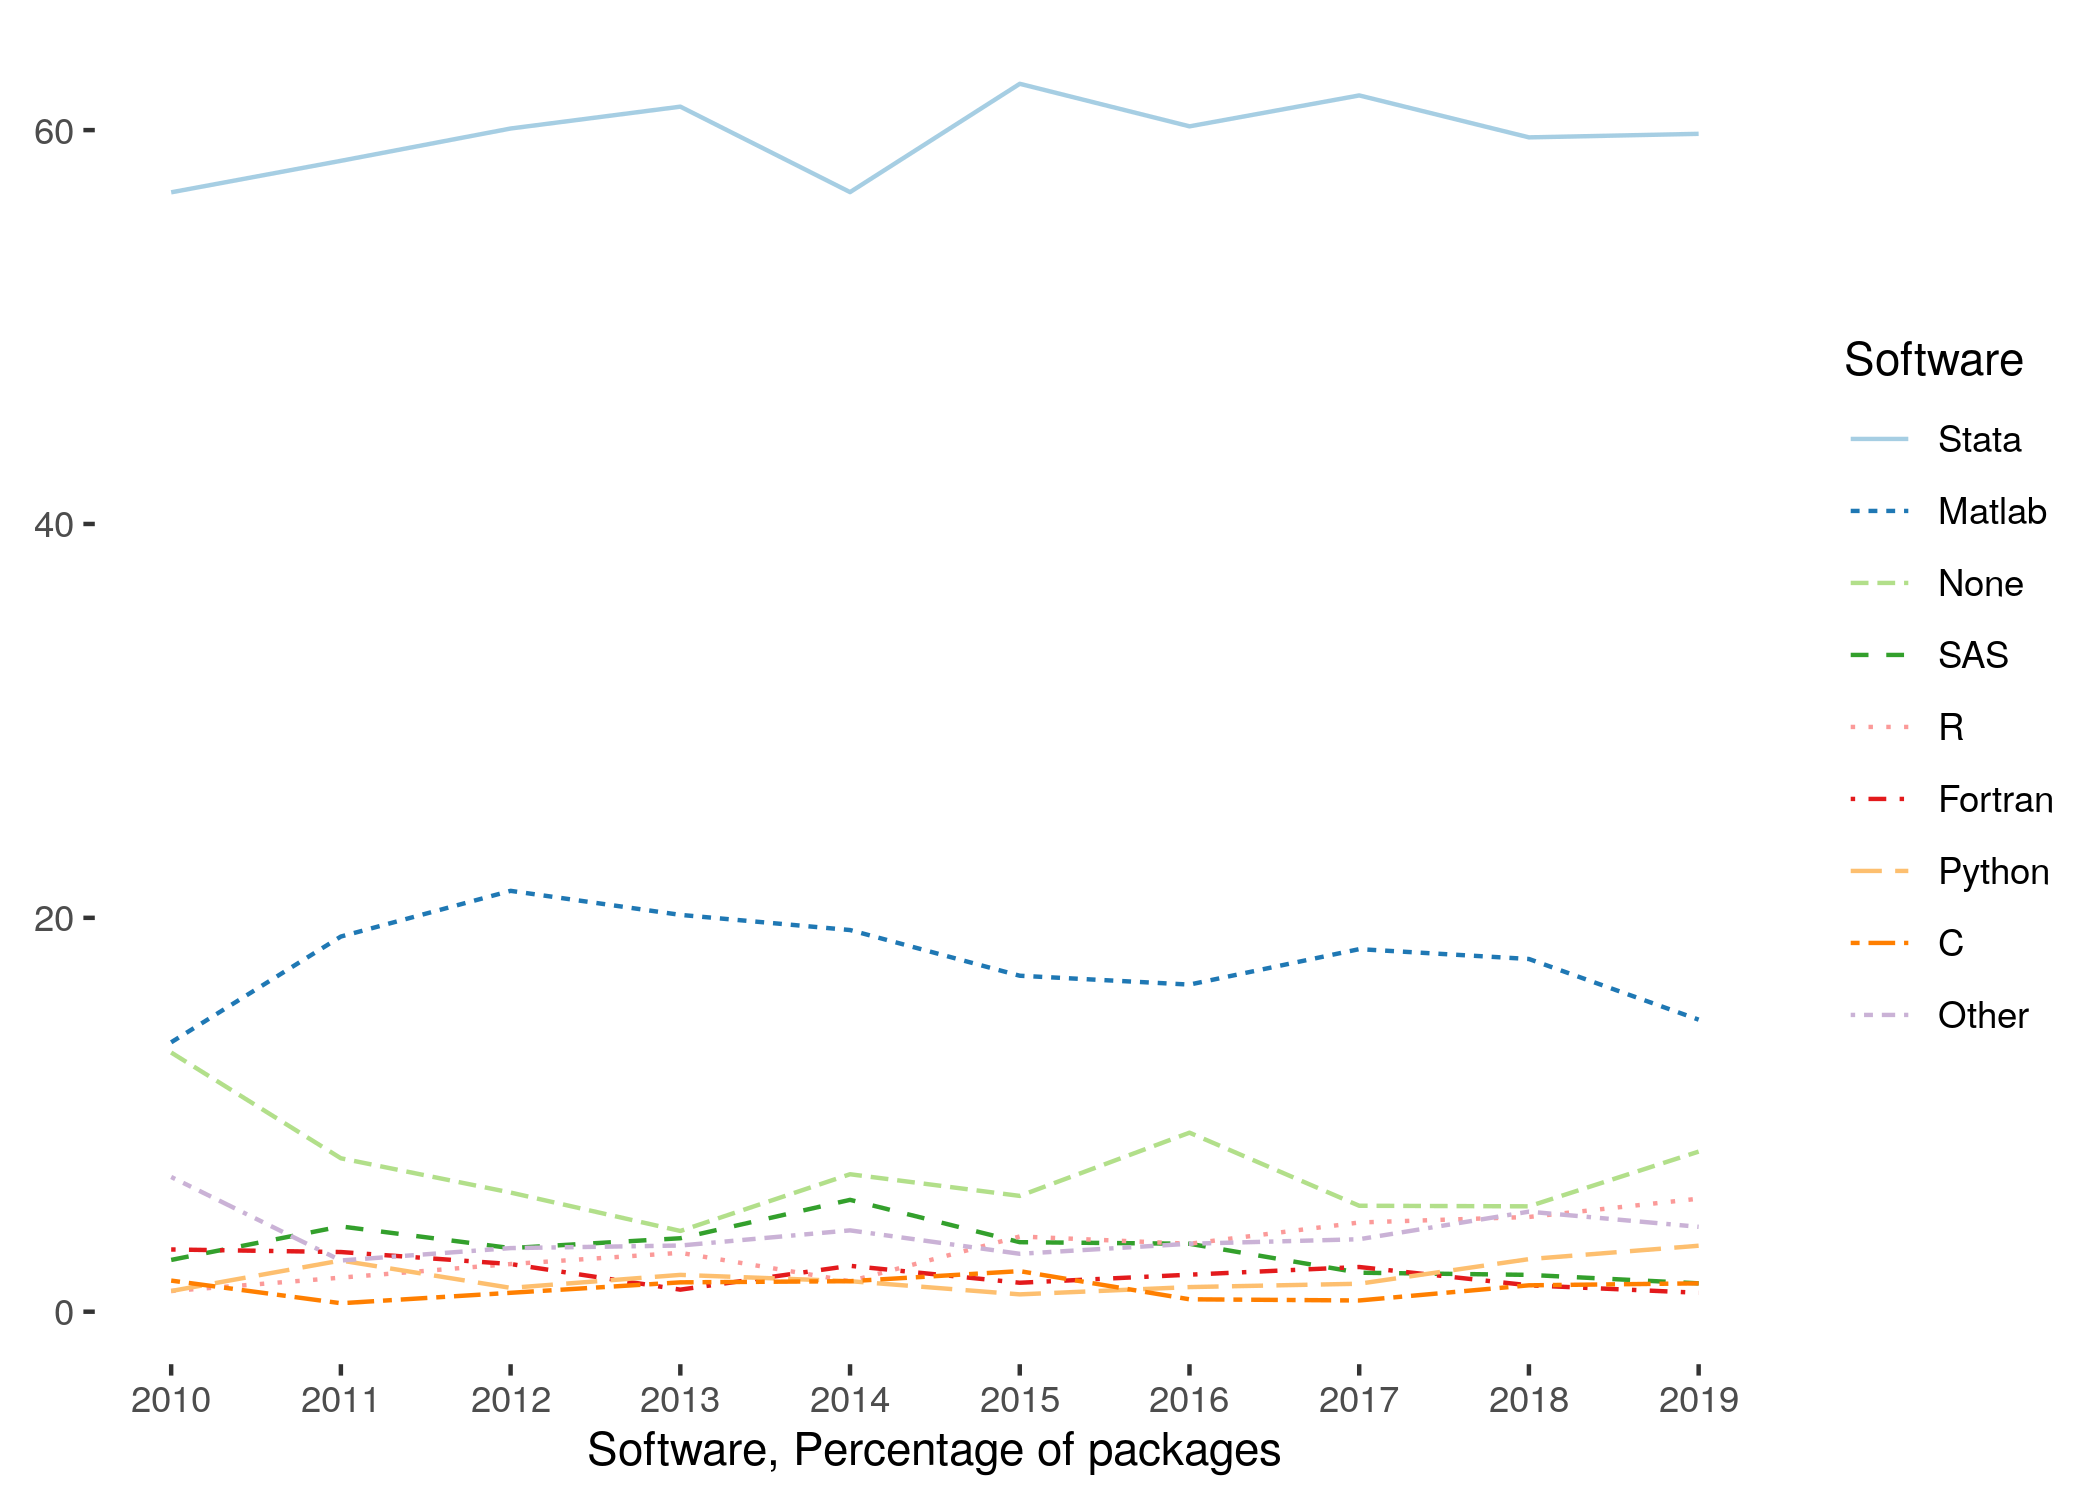
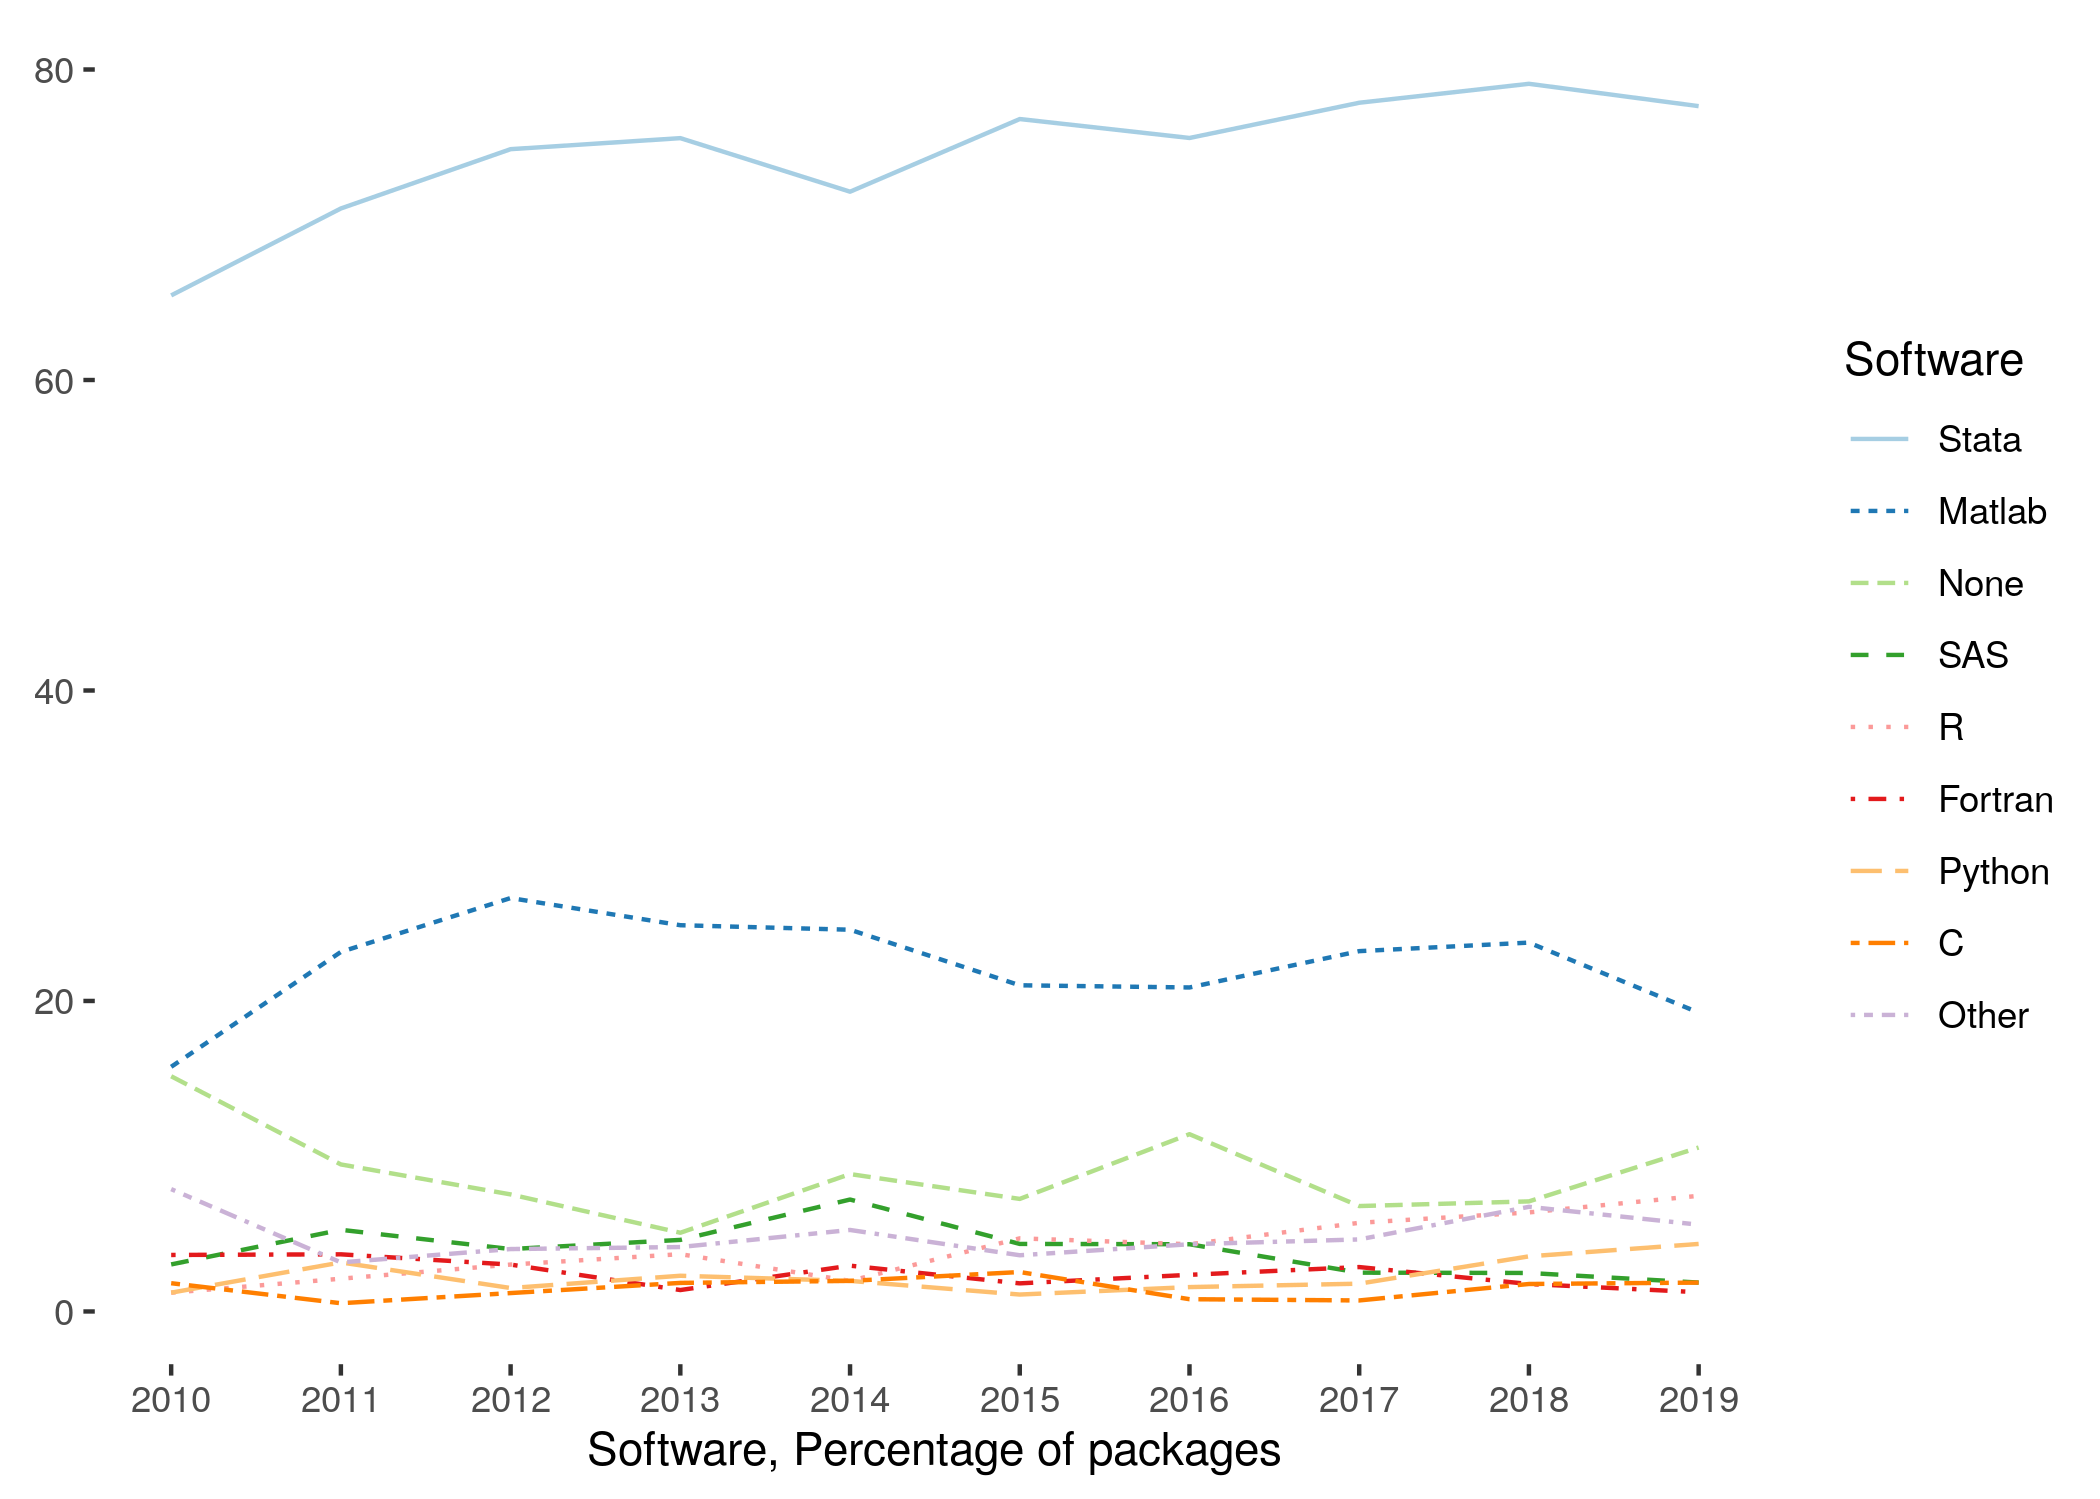
Updating programs to be robust, inputs to be correct, see Denominator bug

diff --git a/migration_data.tex b/migration_data.tex
@@ -1,3 +1,6 @@
+% this file is hand-coded from the report in the AEA migration repository
+% This is NOT ideal! Do not do this in your own package!
+
 %"","statistic","value"
 %"1","supplements",2552
 %"2","files",94465
@@ -6,8 +9,8 @@
 %"5","size",473634538604
 %"6","median.size",1624070
 %"7","median.filecount",12
-%"8","supplements.stata.pct",48.37
-%"9","supplements.matlab.pct",37.47
+%"8","supplements.stata.pct",72.96
+%"9","supplements.matlab.pct",22.45
 
 
 \newcommand{\numsupplements}{2,552}
@@ -21,5 +24,5 @@
 \newcommand{\nummediansize}{1624070}
 \newcommand{\nummediansizeMB}{1.5 Mb}
 \newcommand{\nummedianfilecount}{12}
-\newcommand{\numsupplementsstatapct}{48.37}
-\newcommand{\numsupplementsmatlabpct}{37.47}
+\newcommand{\numsupplementsstatapct}{72.96}
+\newcommand{\numsupplementsmatlabpct}{22.45}

diff --git a/tables/table_software.tex b/tables/table_software.tex
@@ -1,6 +1,6 @@
 
 % Table created by stargazer v.5.2.2 by Marek Hlavac, Harvard University. E-mail: hlavac at fas.harvard.edu
-% Date and time: Sun, Feb 23, 2020 - 12:40:48 PM
+% Date and time: Thu, Aug 06, 2020 - 02:52:18 PM
 \begin{table}[!htbp] \centering 
   \caption{Software usage in supplements} 
   \label{tab:software} 

diff --git a/programs/README.md b/programs/README.md
@@ -11,6 +11,7 @@ Data sources
    - `raw`: Raw data as downloaded from the internal systems at the AEA RCT Registry by James Turitto. Since providing this data, the AEA RCT Registry now provides snapshots of the data at [https://dataverse.harvard.edu/dataverse/aearegistry](https://dataverse.harvard.edu/dataverse/aearegistry). The data here would be similar to AEA RCT Registry(2020), though that has not been verified.
    - `generated`: Simplified data, based on the raw data. Provided as part of this archive. Created by `01_prepare-rct.R`. 
 - `externals/aea-supplement-migration/`: Data and Figures from Vilhuber (2020b) and https://github.com/AEADataEditor/aea-supplement-migration. 
+   - Download the relevant release (corrected version: v20200515, URL: https://github.com/AEADataEditor/aea-supplement-migration/archive/v20200515.zip), unpack into `externals/`
    - `programs/`: Source for figures copied to and provided as part of the `images` directory in this repository. Copied using `03_copy_migration_figures.R`
    - `data/generated/`: Source for tables, copied using `06_copy_migration_tables.R` and provided as part of this repository. 
 - `tables`: This directory contains data copied using `06_copy_migration_tables.R` and serves as an input to processing in `07_print_migration_tables.R`
@@ -53,6 +54,10 @@ Output folders are listed in `config.R`. By default,
 | figure_preregistrations.png | Figure 12 | `02_analysis-rct.R`| 
 | figure_preanalysisplans.png | Figure 13 | `02_analysis-rct.R`| 
 | table_software.tex | Table 1 | `07_print_migration_tables.R` |
+
+Changelog
+---------
+After publication, Alan Riley (Stata) pointed out a discrepancy between Table 1 and Figure 5, which should be depicting (on average) the same data. This was corrected in the code associated with the AEA Repository migration (see https://github.com/AEADataEditor/aea-supplement-migration/commit/530f1e9ad8059e68815b5836db33155c990154b0 for the commit implementing the code change).
 
 References
 ----------
